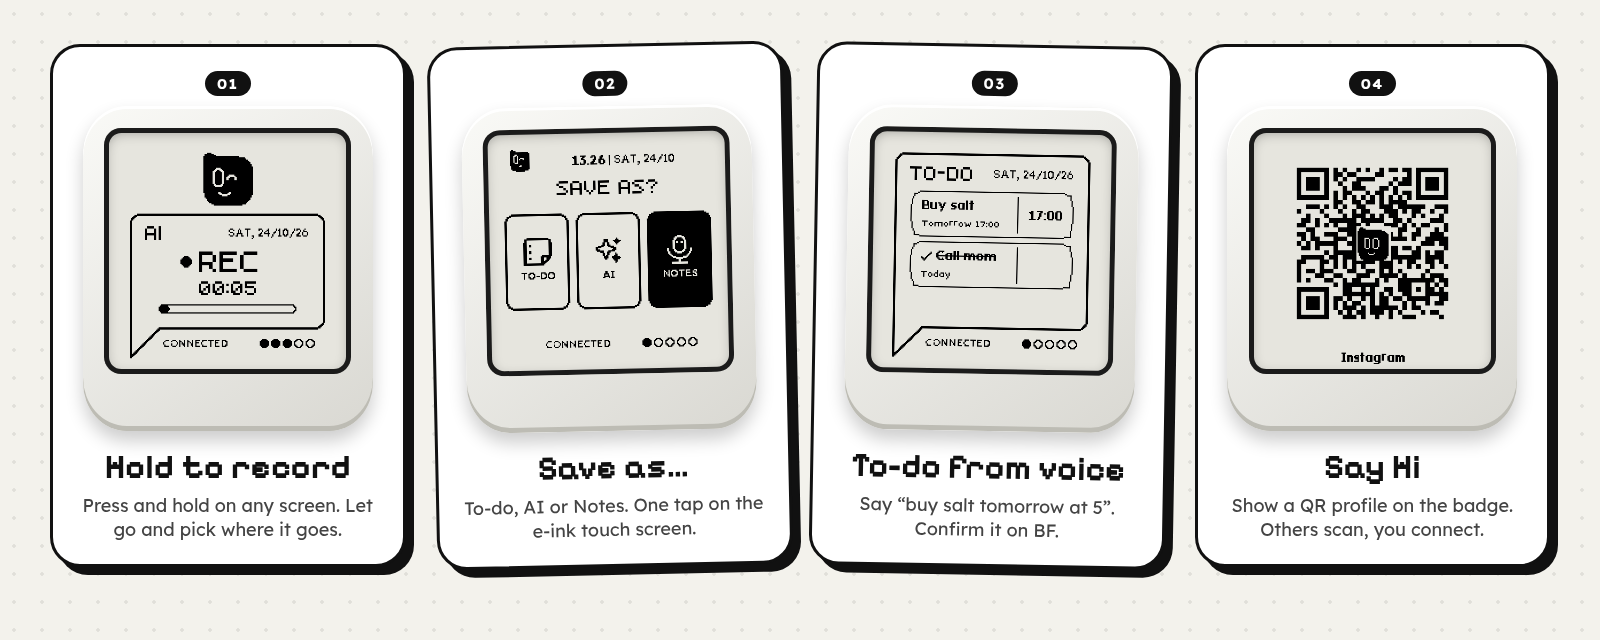
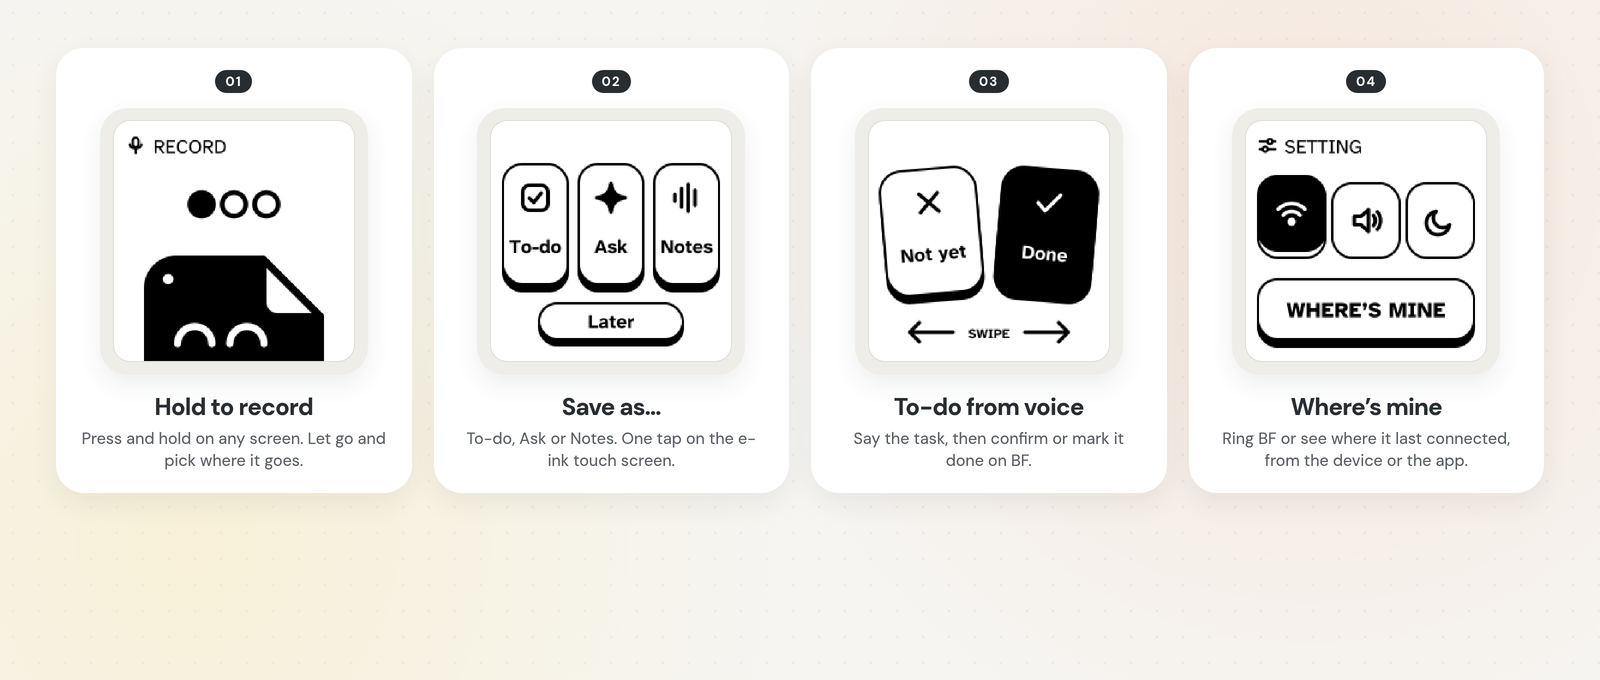
docs: refresh GitHub page with current app and device UI
Update the README and screenshots to the Pocket Friend 0.4.11 app
design and the black-on-white BF-01 screen design now in testing.
The public firmware in Releases remains 0.4.1.

diff --git a/README.md b/README.md
@@ -1,95 +1,98 @@
 <p align="center">
-  <img src="docs/img/hero.png" alt="Pocket Friend: the Android app for BF-01, a pocket-sized e-ink AI buddy" width="100%">
+  <img src="docs/img/hero.png" alt="Pocket Friend: the Android app for BF-01, a pocket-sized e-ink companion" width="100%">
 </p>
 
 <p align="center">
-  <a href="https://github.com/yanuarm00/pocket-friend/releases/latest"><img alt="Latest release" src="https://img.shields.io/github/v/release/yanuarm00/pocket-friend?style=for-the-badge&color=000000&labelColor=444444"></a>
-  <img alt="Android 8.0+" src="https://img.shields.io/badge/Android-8.0%2B-000000?style=for-the-badge&logo=android&logoColor=white&labelColor=444444">
-  <img alt="Kotlin and Jetpack Compose" src="https://img.shields.io/badge/Kotlin-Compose-000000?style=for-the-badge&logo=kotlin&logoColor=white&labelColor=444444">
-  <img alt="ESP32-S3" src="https://img.shields.io/badge/ESP32--S3-e--ink-000000?style=for-the-badge&labelColor=444444">
+  <a href="https://github.com/yanuarm00/pocket-friend/releases/latest"><img alt="Latest release" src="https://img.shields.io/github/v/release/yanuarm00/pocket-friend?style=for-the-badge&color=FF6A1A&labelColor=282D31"></a>
+  <img alt="Android 8.0+" src="https://img.shields.io/badge/Android-8.0%2B-FF6A1A?style=for-the-badge&logo=android&logoColor=white&labelColor=282D31">
+  <img alt="Kotlin and Jetpack Compose" src="https://img.shields.io/badge/Kotlin-Compose-FF6A1A?style=for-the-badge&logo=kotlin&logoColor=white&labelColor=282D31">
+  <img alt="ESP32-S3" src="https://img.shields.io/badge/ESP32--S3-e--ink-FF6A1A?style=for-the-badge&labelColor=282D31">
 </p>
 
-<h3 align="center">Hold. Talk. Done.</h3>
-
 <p align="center">
-  <a href="https://github.com/yanuarm00/pocket-friend/releases/latest/download/PocketFriend.apk"><b>⬇ Get the APK</b></a> ·
-  <a href="#-build-your-own-bf-01">Build a BF-01</a> ·
-  <a href="#-roadmap">Roadmap</a> ·
-  <a href="#-join-in">Join in</a>
+  <a href="https://github.com/yanuarm00/pocket-friend/releases/latest/download/PocketFriend.apk"><b>Get the APK</b></a> ·
+  <a href="#build-your-own-bf-01">Build a BF-01</a> ·
+  <a href="#roadmap">Roadmap</a> ·
+  <a href="#join-in">Join in</a>
 </p>
 
 ---
 
-## 🐣 What is BF-01?
+## What is BF-01?
 
-BF-01 is a little e-ink friend that fits in your hand. It has a small face, a speech-bubble screen, a touch panel and a microphone. There is no feed to scroll and nothing glows at you.
+BF-01 is a small e-ink companion that fits in your hand. It has a face, a 1.54″ touch screen, a microphone and two buttons. There is no feed to scroll, and the screen only draws when something changes.
 
-You press and hold, you say something, and BF-01 files it: a to-do, a note, or a question for your AI. Pocket Friend is the Android app that goes with it. It keeps your notes, your tasks and your chats, and it updates BF-01 over Bluetooth.
+You press and hold, you say something, and BF-01 files it: a to-do, a note, or a question for your AI. Pocket Friend is the Android app that goes with it. It keeps your notes, tasks and chats, and it updates BF-01 over Bluetooth.
 
-It started as a hobby project: *what if an AI companion was calm, pocket-sized and a bit cute?* Now we are looking for other makers to build one and help make it better.
-
-<p align="center">
-  <img src="docs/img/how_it_works.png" alt="BF-01 talks to the Pocket Friend app over BLE; the app talks to the AI provider you choose" width="100%">
-</p>
-
-## ✨ Highlights
+It started as a hobby project: what if an AI companion was calm, pocket-sized and a bit cute? You can build one from off-the-shelf parts — no soldering.
 
 <p align="center">
-  <img src="docs/img/feature_strip.png" alt="Hold to record, Save as, To-do from voice, Say Hi" width="100%">
+  <img src="docs/img/how_it_works.png" alt="BF-01 talks to the Pocket Friend app over Bluetooth; the app talks to Qwen with your API key" width="100%">
 </p>
+
+## Highlights
 
 | | |
 |---|---|
-| 🎙 **Hold to record, anywhere** | Press and hold the button on *any* screen. Let go and choose *Save as…* To-do, AI or Notes. |
-| 💬 **AI chat blocks** | Ask BF-01 a question and the answer shows up as a bubble on the e-ink screen. The whole conversation is in the app. Bring your own Grok (xAI) or Qwen key. |
-| ✅ **To-do from voice** | Say "buy salt tomorrow at five". BF-01 shows *Add this to-do?* and you confirm with one tap. Tasks sync with the app. |
-| 👋 **Say Hi QR profiles** | Show a QR code of your profile (Instagram, for example) on the screen. Friends scan it, no typing needed. |
-| 🔋 **E-ink + battery saving** | The screen only draws when something changes. BF-01 sleeps with quiet hours and wakes when you touch it. |
-| 📡 **BLE OTA updates** | The app downloads the firmware, checks its SHA-256 against an official list and sends it over Bluetooth. If the new firmware fails to boot, BF-01 rolls back by itself. |
-| 📍 **Where's mine?** | Ring BF-01 or see where it was last connected on a map. |
+| **Hold to record, anywhere** | Press and hold the button on any screen. Let go and choose *To-do*, *Ask* or *Notes*. |
+| **Ask BF** | Ask a question on the device or in the app. The conversation is kept in the app, and answers can show on the e-ink screen. Bring your own Qwen key. |
+| **To-do from voice** | Say the task. BF can ask you to confirm it, and the list syncs with the app. |
+| **Say Hi QR profiles** | Keep QR profiles (Instagram, for example) in the app and show one on BF so others can scan it. |
+| **Where's mine?** | Ring BF-01, or see where it was last connected, from the app or the device. |
+| **Character, theme and profile** | Name the device, pick a face and choose a colour theme. Onboarding walks you through the first setup. |
+| **Search and privacy** | Search notes and chats. Export or clear data, and choose whether to keep audio. No ads or telemetry. |
+| **E-ink and battery saving** | The screen only draws when something changes. BF-01 can sleep with quiet hours and wake when you touch it. |
+| **BLE firmware updates** | The app downloads the firmware, checks its SHA-256 against an official list and sends it over Bluetooth. If the new firmware fails to boot, BF-01 rolls back by itself. |
 
-## 📱 The app
-
-<p align="center">
-  <img src="docs/img/app_trio.png" alt="Pocket Friend app: Home, To-do and Notes" width="100%">
-</p>
-
-Home shows the same bubble as BF-01 and the battery level. Ask AI, To-do and Notes mirror what happens on the device. Voice notes you record on BF-01 show up in Notes when the phone connects.
-
-## 🖼 A peek at the BF-01 screen
+## The app
 
 <p align="center">
-  <img src="docs/img/device/bf_menu_grid.png" alt="BF-01 menu grid" width="30%">
-  <img src="docs/img/device/bf_chooser.png" alt="BF-01 Save as chooser" width="30%">
-  <img src="docs/img/device/bf_todo_confirm.png" alt="BF-01 add this to-do" width="30%">
+  <img src="docs/img/app_trio.png" alt="Pocket Friend app: Home, Notes, To-do and Ask BF" width="100%">
 </p>
-<p align="center"><sub>The real firmware UI, rendered 1-bit just like the e-ink panel. There are more screens. We kept a few surprises.</sub></p>
 
-## 🛠 Build your own BF-01
+Home shows the device, today's tasks and recent recordings. Notes, To-do and Ask BF follow what happens on BF-01. Voice notes you record on the device show up in Notes when the phone connects.
+
+The current app release is Pocket Friend 0.4.11. If you already have it installed, you can update from inside the app.
+
+## A look at the BF-01 screen
+
+A new black-on-white device UI is in testing. The screens below are that design, rendered 1-bit at the real 200×200 panel size and enlarged so the pixels stay sharp. The firmware currently in [Releases](https://github.com/yanuarm00/pocket-friend/releases) is 0.4.1.
+
+<p align="center">
+  <img src="docs/img/feature_strip.png" alt="BF-01 screens: hold to record, save as To-do Ask or Notes, confirm a to-do, and Where's mine" width="100%">
+</p>
+
+<p align="center">
+  <img src="docs/img/device_row.png" alt="BF-01 menu, record, save as, notes, ask and setting screens" width="100%">
+</p>
+
+## Build your own BF-01
 
 No soldering, no custom PCB. Everything you need is off the shelf:
 
 | Part | Notes |
 |---|---|
-| **Waveshare ESP32-S3-Touch-ePaper-1.54 V2** | 1.54" e-ink touch screen, ESP32-S3, 8 MB flash, 8 MB PSRAM, mic + audio codec, RTC, TF card slot. |
+| **Waveshare ESP32-S3-Touch-ePaper-1.54 V2** | 1.54″ e-ink touch screen (200×200, 1-bit), ESP32-S3, 8 MB flash, 8 MB PSRAM, mic + audio codec, RTC, TF card slot. |
 | **400 mAh LiPo battery** | Plugs into the board's battery connector. |
 | **USB-C cable** | For power and the first flash. |
-| **Case (optional)** | 3D-printable case files are on the [roadmap](#-roadmap). |
+| **Case (optional)** | 3D-printable case files are on the [roadmap](#roadmap). |
 | **microSD card (optional)** | Stores voice notes. Notes sync to the app when you connect. |
 
-The firmware binaries are in [Releases](https://github.com/yanuarm00/pocket-friend/releases). A step-by-step build guide with flashing instructions is coming soon. Until then, open an issue and we will help you get going.
+Ready-to-flash firmware binaries are in [Releases](https://github.com/yanuarm00/pocket-friend/releases). A step-by-step build guide with flashing instructions is coming soon. Until then, open an issue and we will help you get going.
 
-## 🚀 Quick start
+## Quick start
 
 1. **Install the app.** Download [`PocketFriend.apk`](https://github.com/yanuarm00/pocket-friend/releases/latest/download/PocketFriend.apk) from [Releases](https://github.com/yanuarm00/pocket-friend/releases) and open it on your Android phone (8.0 or newer). Allow *install from unknown sources* when asked. If Google Play Protect warns you, tap *More details → Install anyway*, because the app is not on the Play Store.
-2. **Pair BF-01.** Open the app, allow Bluetooth, location, calendar and notifications, then follow the pairing steps.
-3. **Add your AI key.** Go to *Settings → AI provider* and paste your Grok (xAI) or Qwen key. It is stored encrypted in the Android Keystore.
-4. **Update the firmware.** Go to *Settings → Firmware update* (title shown in the app: "Firmware update"). The app downloads the build, verifies it and sends it to BF-01 over Bluetooth.
-5. **Hold the button and say hi.**
+2. **Pair BF-01.** Open the app, allow the permissions it asks for, then follow the onboarding or pairing steps.
+3. **Add your AI key.** Go to *Settings → AI & voice* and paste your Qwen key. It is stored encrypted in the Android Keystore.
+4. **Update the firmware.** Go to *Settings → Software update*. The app downloads the build, verifies it and sends it to BF-01 over Bluetooth.
+5. **Hold the button and say something.**
+
+If you already have a signed build installed, open the app and use the in-app updater. It reads the latest GitHub release.
 
 > Without a BF-01 the app still opens, but most features need the device.
 
-## 🧱 Build the app from source
+## Build the app from source
 
 Requires JDK 17+ and the Android SDK (platform 36). Kotlin + Jetpack Compose, minSdk 26.
 
@@ -100,39 +103,40 @@ echo "sdk.dir=$HOME/android-sdk" > local.properties
 
 The debug APK ends up in `app/build/outputs/apk/debug/`. Signed release builds read the keystore from environment variables (`PF_KEYSTORE`, `PF_KEYSTORE_PASSWORD`, `PF_KEY_ALIAS`, `PF_KEY_PASSWORD`). No keystore or password is included in this repo.
 
-## 🔒 Privacy
+## Privacy
 
 - No ads, no analytics, no telemetry.
 - Your API key is stored encrypted in the Android Keystore.
 - Conversation text and audio go to the AI provider *you* choose, with *your* key. Calendar, notes, tasks and location stay on your phone and BF-01.
 - The Wi-Fi link to BF-01 uses plain local-network traffic, so use it on a network you trust.
 
-## 🗺 Roadmap
-
+## Roadmap
 
 - [x] Hold-to-record on every screen
-- [x] AI chat blocks (Grok / Qwen)
+- [x] Ask BF (Qwen)
 - [x] To-do from voice with on-device confirm
 - [x] Say Hi QR profiles
 - [x] BLE firmware updates with SHA-256 check and rollback
+- [x] Onboarding, Profile, Character, Theme, Search and Privacy
+- [x] Where's mine
 - [ ] Step-by-step build guide
 - [ ] Printable case files
 - [ ] More faces and expressions for BF-01
 - [ ] Your idea here: [open an issue](https://github.com/yanuarm00/pocket-friend/issues/new)
 
-## 🤝 Join in
+## Join in
 
 This is a hobby project and there is plenty to play with. You don't need to write code to help:
 
 - **Build one** and tell us what broke. Photos of your BF-01 are very welcome.
 - **Design a case** or a charging dock. Share the files.
-- **Draw a face.** BF-01 has 16 face sprites and there is room for more.
+- **Draw a face.** BF-01 can use more character expressions.
 - **Translate** the app into your language.
 - **Fix a bug or add a feature** with a pull request. Small PRs are best.
 
 Not sure where to start? Open an [issue](https://github.com/yanuarm00/pocket-friend/issues) and say hi.
 
-## 📄 License
+## License
 
 Pocket Friend is released under the [MIT License](LICENSE).
 
@@ -140,4 +144,4 @@ The BF-01 firmware source is not public yet, but you don't have to build it to t
 
 ---
 
-<p align="center"><sub>Made with a soldering iron left in the drawer. 🐣</sub></p>
+<p align="center"><sub>Made with a soldering iron left in the drawer.</sub></p>
